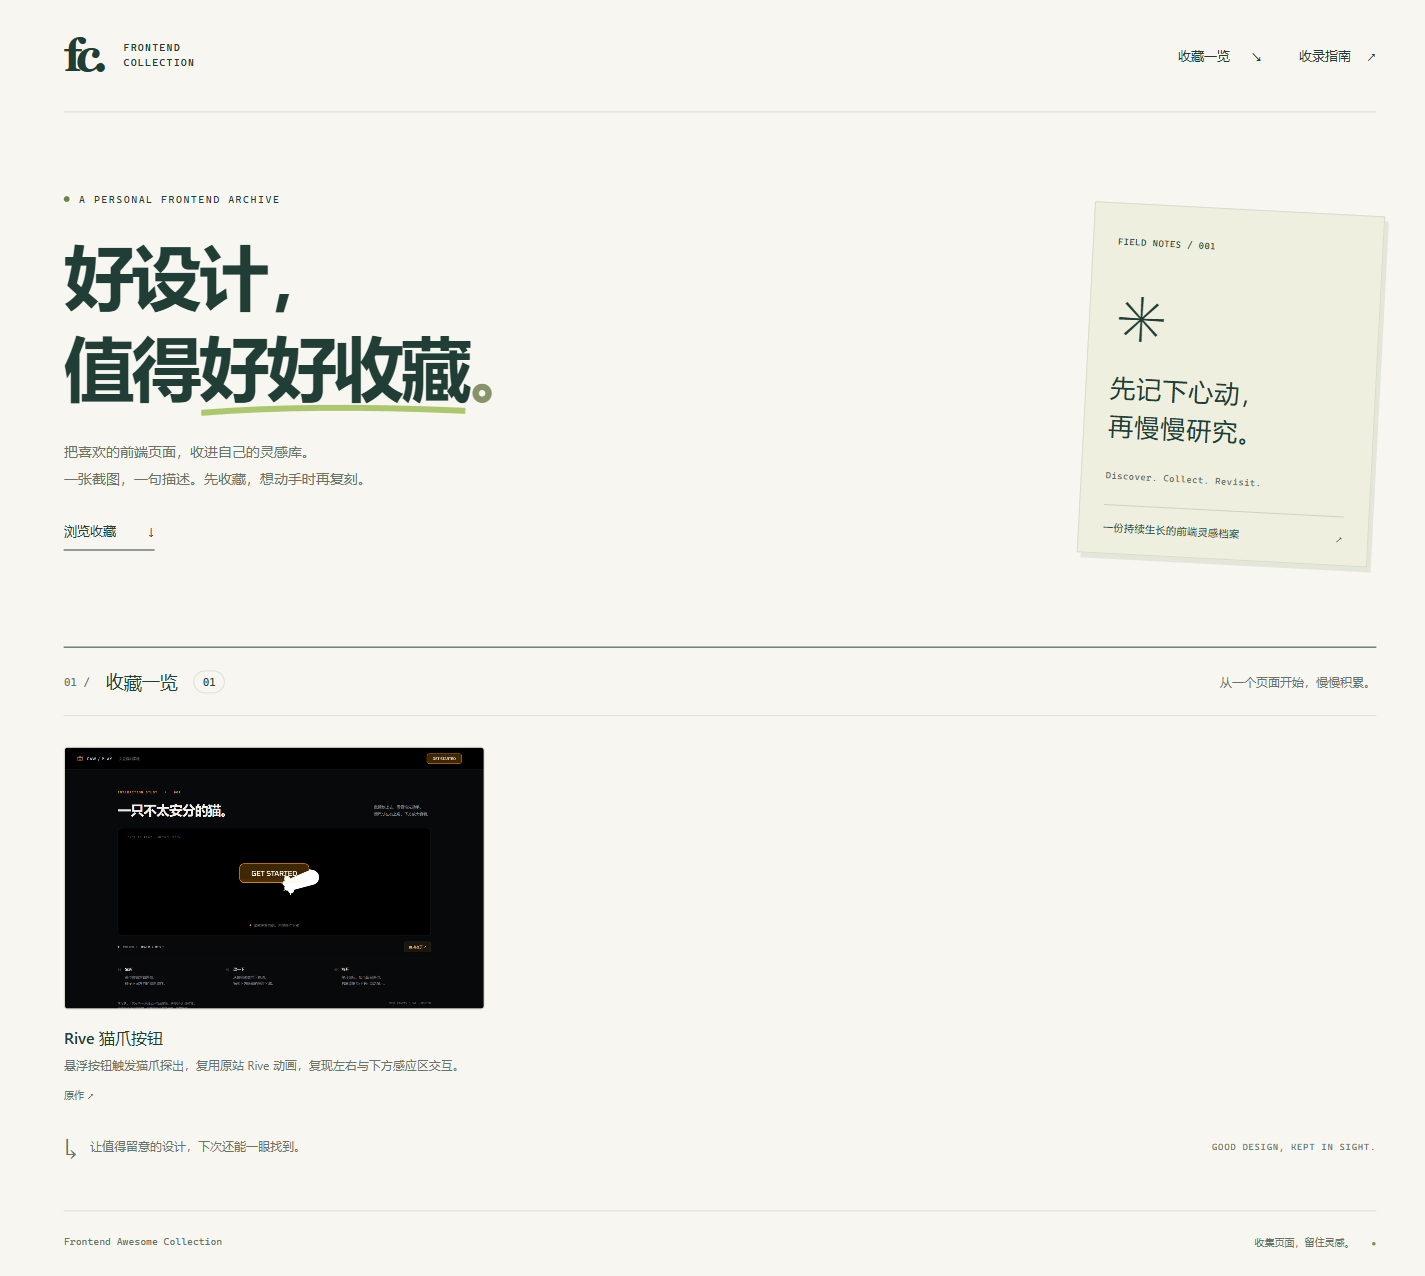
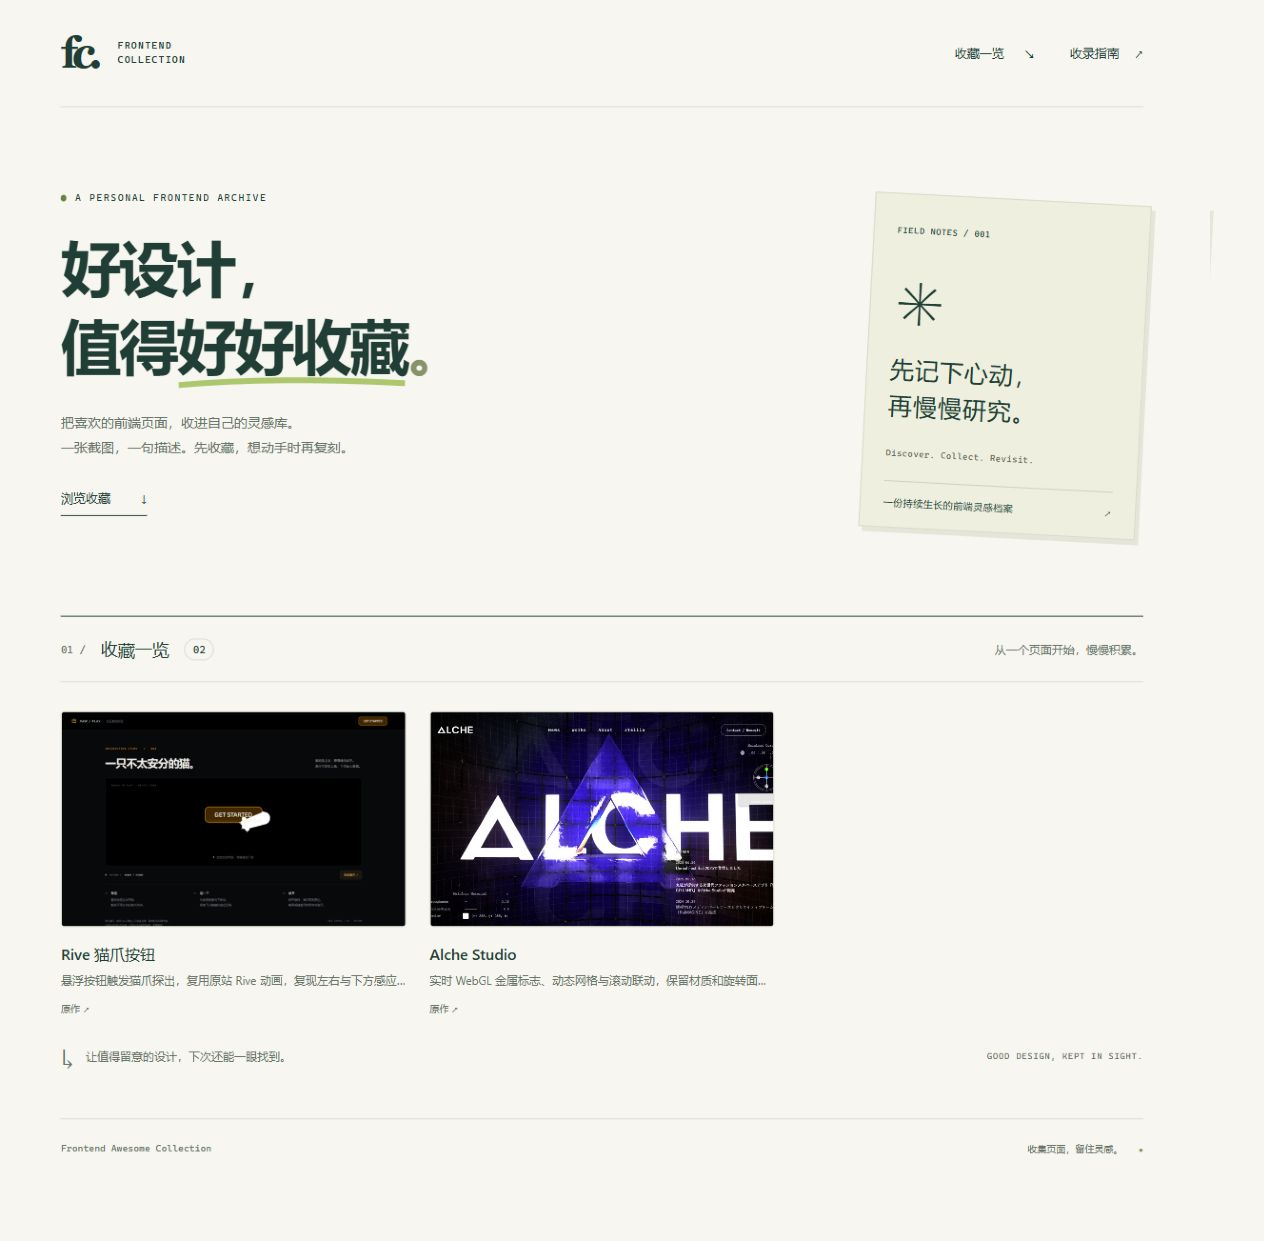
docs: refresh gallery overview with Alche Studio

diff --git a/README.md b/README.md
@@ -29,9 +29,9 @@
 
 独立的 [showcase 截图收藏墙](showcase/README.md)，以“页面截图 + 项目名称 + 一行描述”直观展示收集的优秀前端项目。**推荐一并收录源码，方便研究实现与后续复刻；但画廊展示不依赖源码，有无源码都能展示截图和描述。** 原作、源码仓库及演示链接可按实际情况补充，无需提供 live 演示或部署到公网。已收录 [Rive 猫爪按钮](projects/rive-cat-paw/README.md) 与 [Alche Studio](projects/alche-studio/README.md)，可在收藏墙查看截图与描述。
 
-![前端项目截图收藏墙桌面预览，包含 Rive 猫爪按钮收藏卡片](showcase/screenshots/gallery-desktop.png)
+![前端项目截图收藏墙桌面预览，包含 Rive 猫爪按钮与 Alche Studio](showcase/screenshots/gallery-desktop.png)
 
-*画廊实际页面截图，展示已收录的 Rive 猫爪按钮。截图为静态预览，查看收藏墙请按下方方式启动。*
+*画廊实际页面截图，展示已收录的 Rive 猫爪按钮与 Alche Studio。截图为静态预览，查看收藏墙请按下方方式启动。*
 
 使用 Node.js 22+，无需安装第三方依赖。在仓库根目录运行：
 
